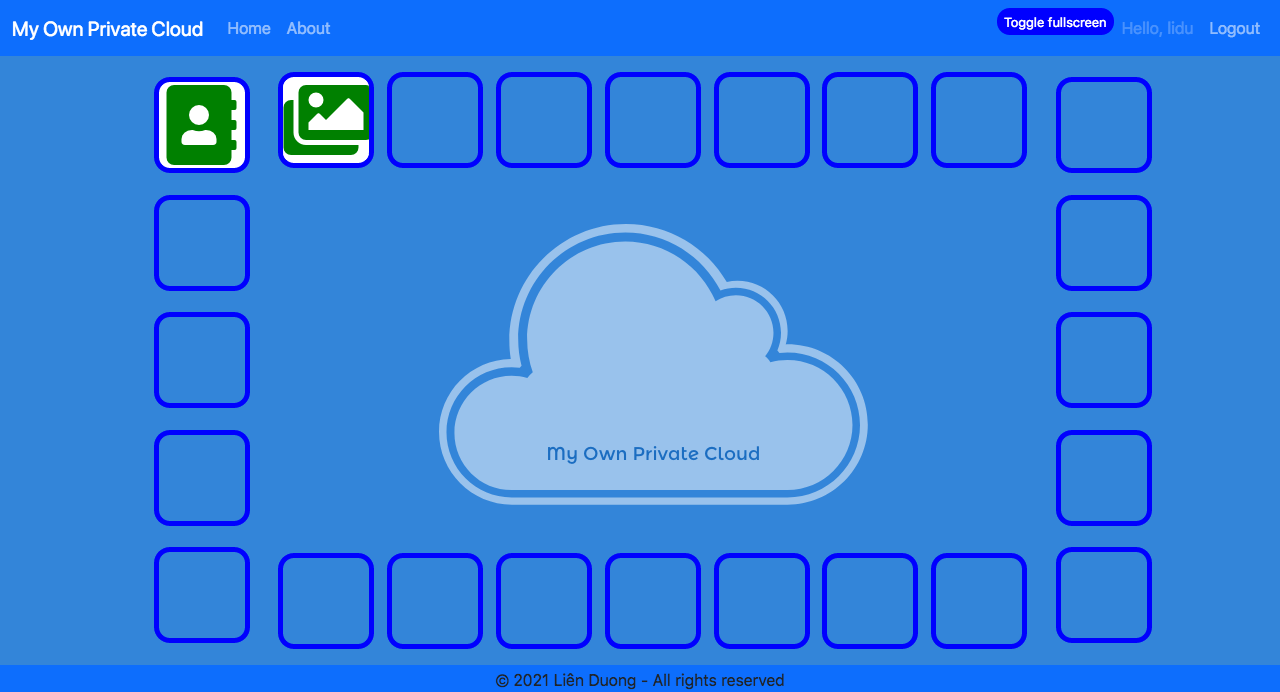
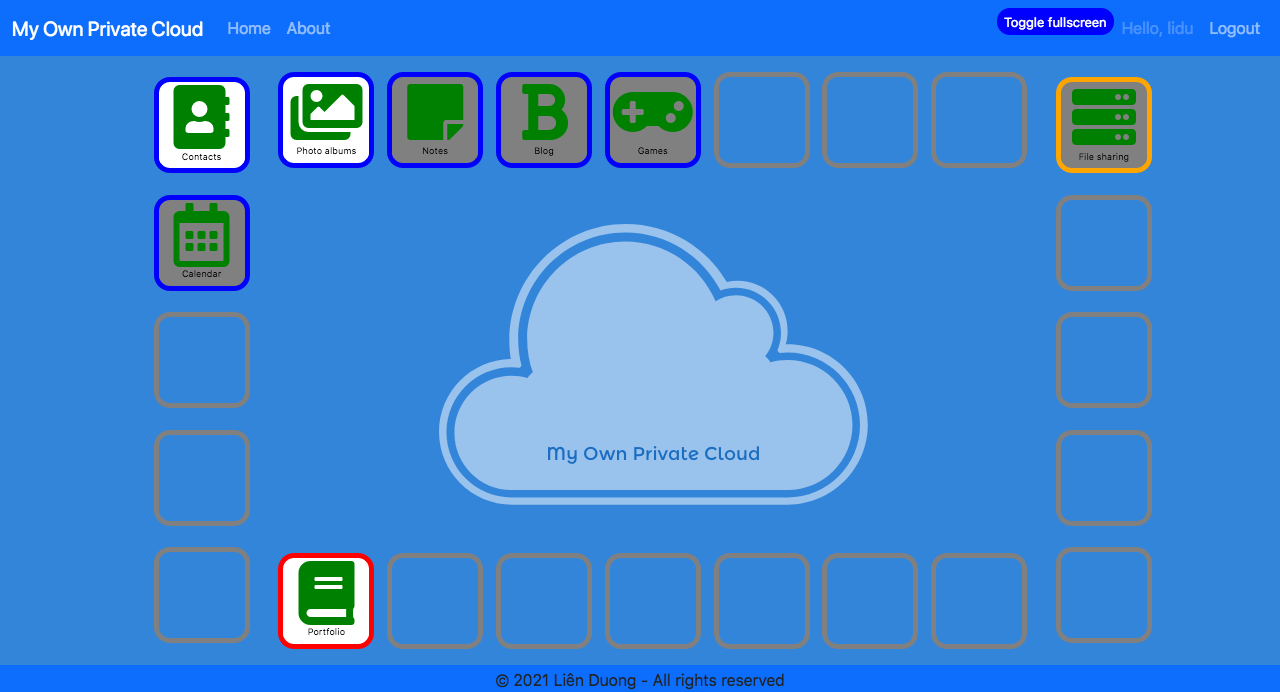
Day54

diff --git a/mopc/main/templates/main/main.html b/mopc/main/templates/main/main.html
@@ -8,88 +8,108 @@ My Own Private Cloud
 
 <div class="main">
     <div class="left">
-        <div class="tile" style="background-color: white; text-align: center; padding-top: 3px">
+        <div class="tile org" style="background-color: white; text-align: center; padding-top: 3px">
             <a href="{% url 'index' %}">
-                <i class="fas fa-address-book" style="font-size: 5em; color:green; background-color: white;"></i>
+                <i class="fas fa-address-book" style="font-size: 4em; color: green; background-color: white;"></i>
             </a>
+            <p class="active" style="font-size: xx-small; color:black;">Contacts</p>
         </div>
-        <div class="tile">
+        <div class="tile org" style="background-color: grey; text-align: center; padding-top: 3px">
+            <a href="#">
+                <i class="far fa-calendar-alt" style="font-size: 4em; color: green; background-color: grey;"></i>
+            </a>
+            <p class="inactive" style="font-size: xx-small; color:black;">Calendar</p>
+        </div>
+        <div class="tile undefined">
 
         </div>
-        <div class="tile">
+        <div class="tile undefined">
 
         </div>
-        <div class="tile">
-
-        </div>
-        <div class="tile">
+        <div class="tile undefined">
 
         </div>
     </div>
     <div class="main-logo">
         <div class="cont-row">
-            <div class="tile" style="background-color: white; text-align: center; padding-top: 3px">
+            <div class="tile leisure active">
                 <a href="{% url 'photologue:pl-gallery-archive' %}">
-                    <i class="fas fa-images" style="font-size: 5em; color:green; background-color: white;"></i>
+                    <i class="fas fa-images" style="font-size: 4em; color:green; background-color: white;"></i>
                 </a>
+                <p class="active" style="font-size: xx-small; color:black;">Photo albums</p>
             </div>
-            <div class="tile">
+            <div class="tile leisure inactive">
+                <a href="#">
+                    <i class="fas fa-sticky-note" style="font-size: 4em; color:green; background-color: grey;"></i>
+                </a>
+                <p class="inactive" style="font-size: xx-small; color:black;">Notes</p>
+            </div>
+            <div class="tile leisure inactive">
+                <a href="#">
+                    <i class="fas fa-bold" style="font-size: 4em; color:green; background-color: grey;"></i>
+                </a>
+                <p class="inactive" style="font-size: xx-small; color:black;">Blog</p>
+            </div>
+            <div class="tile leisure inactive">
+                <a href="#">
+                    <i class="fas fa-gamepad" style="font-size: 4em; color:green; background-color: grey;"></i>
+                </a>
+                <p class="inactive" style="font-size: xx-small; color:black;">Games</p>
+            </div>
+            <div class="tile undefined">
 
             </div>
-            <div class="tile">
+            <div class="tile undefined">
 
             </div>
-            <div class="tile">
-
-            </div>
-            <div class="tile">
-
-            </div>
-            <div class="tile">
-
-            </div>
-            <div class="tile">
+            <div class="tile undefined">
 
             </div>
         </div>
         <div class="cont-row">
-            <div class="tile">
+            <div class="tile pro active" style="background-color: white; text-align: center; padding-top: 3px">
+                <a href="https://hebilidu.github.io">
+                    <i class="fas fa-book" style="font-size: 4em; color: green; background-color: white;"></i>
+                </a>
+                <p class="active" style="font-size: xx-small; color:black;">Portfolio</p>
+            </div>
+            <div class="tile undefined">
 
             </div>
-            <div class="tile">
+            <div class="tile undefined">
 
             </div>
-            <div class="tile">
+            <div class="tile undefined">
 
             </div>
-            <div class="tile">
+            <div class="tile undefined">
 
             </div>
-            <div class="tile">
+            <div class="tile undefined">
 
             </div>
-            <div class="tile">
-
-            </div>
-            <div class="tile">
+            <div class="tile undefined">
 
             </div>
         </div>
     </div>
     <div class="right">
-        <div class="tile">
+        <div class="tile tech inactive" style="background-color: grey; text-align: center; padding-top: 3px">
+            <a href="#">
+                <i class="fas fa-server" style="font-size: 4em; color:green; background-color: grey;"></i>
+            </a>
+            <p class="inactive" style="font-size: xx-small; color:black;">File sharing</p>
+        </div>
+        <div class="tile undefined">
 
         </div>
-        <div class="tile">
+        <div class="tile undefined">
 
         </div>
-        <div class="tile">
+        <div class="tile undefined">
 
         </div>
-        <div class="tile">
-
-        </div>
-        <div class="tile">
+        <div class="tile undefined">
 
         </div>
     </div> 

diff --git a/mopc/main/static/css/main.css b/mopc/main/static/css/main.css
@@ -54,18 +54,6 @@
 
 }
 
-.tile {
-    width: 6em;
-    height: 6em; 
-    overflow: hidden;
-    background-color: rgba(51,133,217,255);
-    color: white;
-    border: blue solid 5px;
-    border-radius: 1em;
-    margin-left: .4em;
-    margin-right: .4em;
-}
-
 .cont {
     display: flex;
     flex-direction: column;
@@ -93,6 +81,55 @@
     background-color: rgba(51,133,217,255);
     display: flex;
     flex-direction: row;
+}
+
+.tile {
+    width: 6em;
+    height: 6em; 
+    overflow: hidden;
+    background-color: rgba(51,133,217,255);
+    color: white;
+    border-radius: 1em;
+    margin-left: .4em;
+    margin-right: .4em;
+}
+
+.pro {
+    border: red solid 5px;
+    text-align: center; 
+    padding-top: 3px;
+}
+
+.leisure {
+    border: blue solid 5px;
+    text-align: center; 
+    padding-top: 3px;
+}
+
+.tech {
+    border: orange solid 5px;
+    text-align: center; 
+    padding-top: 3px;
+}
+
+.org {
+    border: blue solid 5px;
+    text-align: center; 
+    padding-top: 3px;
+}
+
+.undefined {
+    border: grey solid 5px;
+    text-align: center; 
+    padding-top: 3px;
+
+}
+ .active {
+    background-color: white;
+ }
+
+.inactive {
+    background-color: grey;
 }
 
 .cont-wrap {
